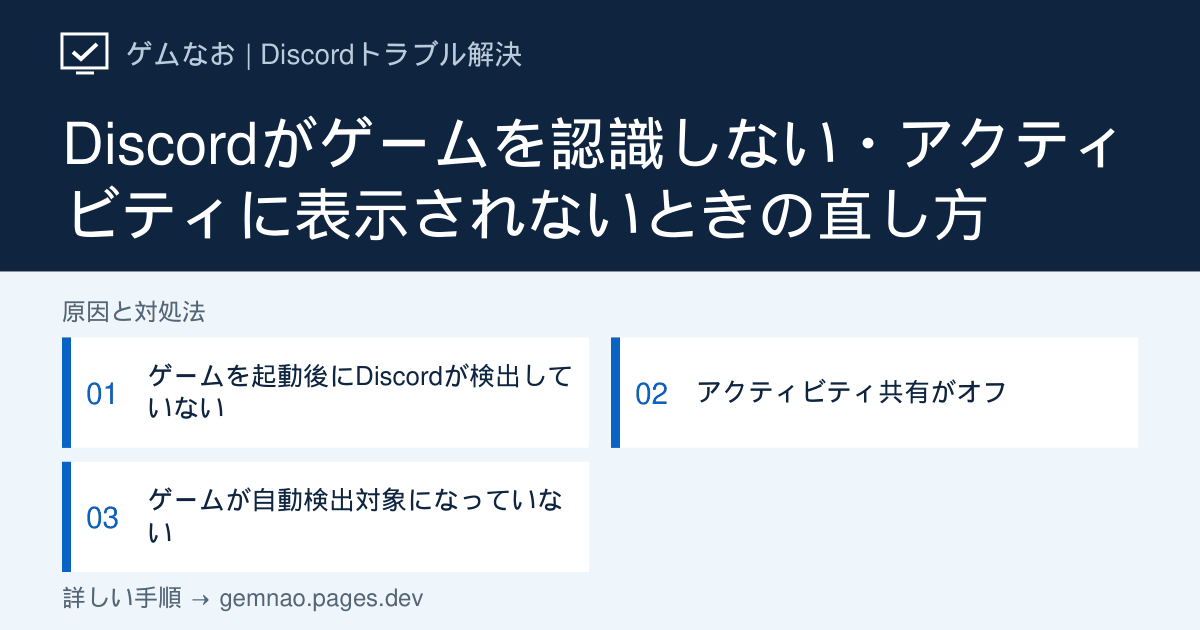
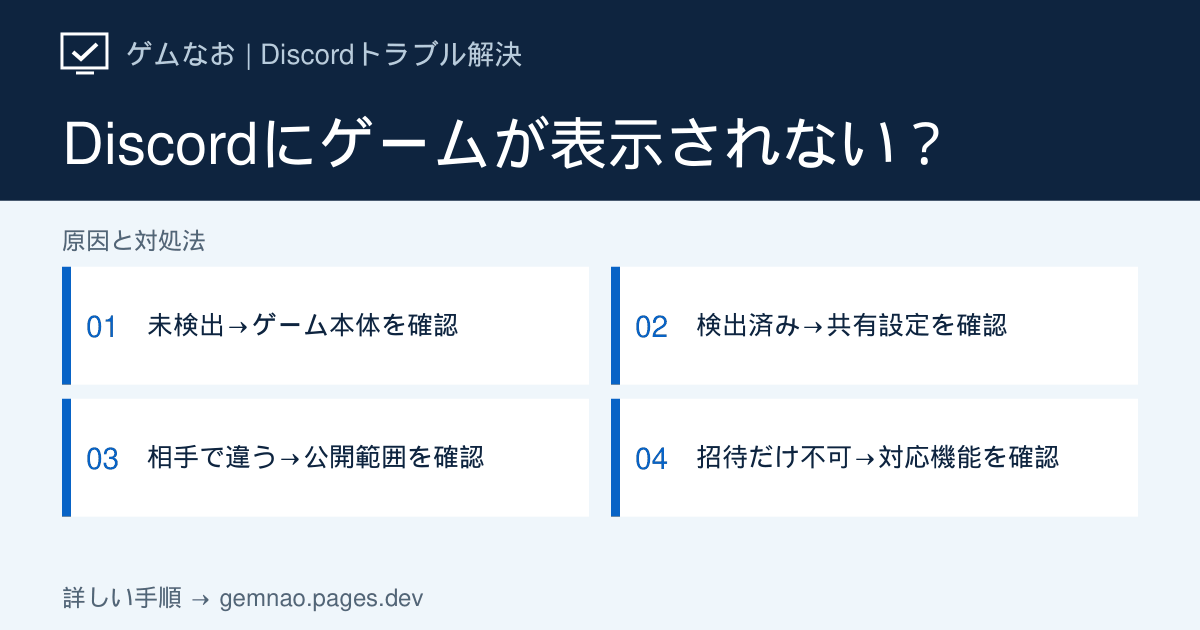
Improve Discord game detection guide with diagnosis and visibility checks

diff --git a/lib/discord-audio-growth-articles.ts b/lib/discord-audio-growth-articles.ts
@@ -587,25 +587,96 @@ export const discordAudioGrowthArticles: DiscordArticle[] = [
   },
   {
     slug: 'game-not-detected', category: 'game',
-    title: 'Discordがゲームを認識しない・アクティビティに表示されないときの直し方',
+    title: 'Discordがゲームを認識しない・表示されない時の直し方｜検出と共有を切り分け',
     shortTitle: 'ゲームを認識しない・表示されない',
-    seoTitle: 'Discordがゲームを認識しない・アクティビティに出ない時の対処法',
-    metaDescription: 'Discordが起動中のゲームを認識しない、プレイ中表示が出ない場合の対処法。アクティビティ共有、登録済みゲーム、権限を確認します。',
-    symptom: 'ゲームを起動してもプロフィールにプレイ中と表示されない、ゲーム招待で「ゲームが検出されません」と出る場合の手順です。',
-    target: 'Windows版 Discordデスクトップアプリ',
-    conclusion: 'ゲームを一度起動した状態でDiscordのアクティビティ設定を確認し、必要なら実行中のゲームを登録済みゲームへ追加します。',
-    quickFixes: ['ゲームを起動してからDiscordを再起動する', 'アクティビティの共有設定をオンにする', '実行中のゲームを登録済みゲームへ追加する'],
+    seoTitle: 'Discordがゲームを認識しない原因と直し方｜プレイ中が表示されない',
+    metaDescription: 'Discordでゲームが表示されない時は、未検出か共有設定の問題かを先に確認。登録済みゲームの確認・手動追加、相手側との表示比較、特定サーバーだけ表示されない場合、ゲーム招待のエラーを症状別に解説します。',
+    symptom: '起動中のゲームがDiscordに出ない、友達にプレイ中と表示されない、ゲーム招待で「Game not detected」が出る場合の手順です。',
+    target: 'Windows 11／Windows 10のDiscordデスクトップアプリ。PCゲームの検出とアクティビティ表示が対象',
+    conclusion: 'まずゲームを起動したまま「登録済みゲーム」で現在の検出状態を確認します。未検出ならゲーム本体の起動と手動追加、検出済みならアクティビティの共有設定を確認。自分の登録画面だけで判断せず、同じゲームを起動した状態で相手のプロフィール表示と照合してください。招待だけ使えない場合はゲーム側の対応も確認します。',
+    quickFixes: [
+      'ゲーム本体をタイトル画面まで起動し、登録済みゲームで現在検出されているか確認する',
+      '未検出なら手動追加、検出済みなら共有設定へ進む',
+      '同じ相手にプロフィールを開き直してもらい、現在のゲーム名が見えるか確認する',
+    ],
+    showStatusCheck: false,
+    diagnosisTitle: 'ゲームの未検出・共有先・招待を見分ける早見表',
+    diagnosisIntro: '確認するのは「自分の登録画面」と「相手から見たプロフィール」の2か所です。過去に登録した名前が一覧に残っているだけでは、今のゲームを検出できている証拠にはなりません。',
+    diagnosis: [
+      { symptom: '登録済みゲームに、現在起動しているゲームが出ない', check: 'ランチャーではなくゲーム本体を起動し、追加候補を確認', causeIndex: 1 },
+      { symptom: '現在のゲームは検出済みだが、相手には表示されない', check: '全体とゲーム単位の共有設定を確認し、同じ相手と比較', causeIndex: 2 },
+      { symptom: '友達には見えるが、特定サーバーの相手には見えない', check: '共有する相手の範囲と、そのサーバーの設定を確認', causeIndex: 3 },
+      { symptom: '1本だけ出ない／別のゲームも検出しない', check: 'ゲームを1本ずつ起動して比較し、問題の範囲を絞る', causeIndex: 4 },
+      { symptom: 'ゲーム名は見えるが、招待・参加ボタンがない', check: 'ゲームの招待対応と、参加を受け付ける状態かを確認', causeIndex: 5 },
+      { symptom: 'ゲーム名は見えるが、ゲーム画面内にDiscordが出ない', check: '検出ではなくオーバーレイの問題。関連記事へ進む', causeIndex: 5 },
+    ],
     causes: [
-      { title: 'ゲームを起動後にDiscordが検出していない', description: 'Discord公式も、検出には対象ゲームを一度起動するよう案内しています。', actions: ['対象ゲームを起動してタイトル画面まで進む', 'Discordを完全終了して再起動する', 'アクティビティ設定を再確認する'] },
-      { title: 'アクティビティ共有がオフ', description: '検出されていても、現在のアクティビティを共有しない設定では表示されません。', actions: ['ユーザー設定のアクティビティ関連項目を開く', '現在のアクティビティを共有する設定を確認する', 'カスタムステータスと混同していないか確認する'] },
-      { title: 'ゲームが自動検出対象になっていない', description: '一部ゲームやランチャーは手動登録が必要な場合があります。', actions: ['登録済みゲームの画面を開く', '実行中のアプリから対象ゲームを追加する', '管理者権限が異なる場合はDiscordとゲームの権限をそろえる'] },
+      {
+        title: '未検出なら、ゲーム本体を起動して手動追加を確認する',
+        description: 'Steamなどのランチャーが開いていることと、ゲーム本体が動いていることを分けて確認します。まず1本だけ起動して調べると、別のアプリを登録する間違いを減らせます。',
+        actions: [
+          'ゲームをタイトル画面まで起動し、終了せずAlt＋TabでDiscordのデスクトップアプリへ戻る。ブラウザのDiscordを見ている場合は、PCにインストールしたアプリで確認する。',
+          '左下の歯車からユーザー設定を開き、「登録済みゲーム（Registered Games）」を探す。公式の現行案内では「Games & Apps」内にある。日本語の分類名が異なる場合は登録済みゲームという項目を目印にする。',
+          '現在起動中として表示される名前を控える。目的のゲームならSTEP 2へ。名前がない、またはランチャー名だけなら、ゲーム本体のウィンドウが開いているか確認する。',
+          '「追加する／Add it!」に相当するリンクが表示されている場合は開き、実行中の候補からゲーム本体を選んで追加する。似た名前を推測で選ばず、分からない時はゲームのウィンドウ名と照合する。',
+          '追加後、現在のゲームとして認識されればSTEP 2へ進む。候補にも出ない場合は追加を繰り返さず、STEP 4で別のゲームとの比較を行う。',
+        ],
+      },
+      {
+        title: '検出済みなら、共有設定を確認して相手の画面と比べる',
+        description: 'PC内でゲームを認識することと、他の人に知らせることは別です。設定を変える前に、ゲーム名を誰に公開したいか決めてください。',
+        actions: [
+          'ユーザー設定のアクティビティ共有／プライバシーに関する画面を開き、「Share my activity」など活動の共有を切り替える項目を確認する。表示名はアプリの更新状況によって異なる。',
+          '共有する場合は全体の共有をオンにし、登録済みゲームで対象ゲームの共有も有効か確認する。オーバーレイの切り替えと混同せず、項目の説明を読む。',
+          'ゲームを起動したまま、共有したい相手1人にDiscord上の自分のプロフィールを開き直してもらう。「今のゲーム名が見えるか」を聞き、過去のプレイ履歴だけを見ていないか確認する。',
+          '変更前は表示なし、変更後は現在のゲーム名ありなら共有設定の変更で改善したと判断する。表示が変わらない場合は相手・ゲームを変えず、STEP 3で公開範囲を確認する。',
+        ],
+      },
+      {
+        title: '相手によって表示が違うなら、共有する範囲を確認する',
+        description: '全員に見せる必要はありません。表示させたい相手が共有範囲に含まれるかを確認します。自分の画面に見えているだけでは、そのサーバーの全員にも見えているとは判断できません。',
+        actions: [
+          'アクティビティ共有画面で、友達のみなどの共有先の指定と、サーバーごとの設定を確認する。目的の相手が友達なのか、同じサーバーにいるだけなのかを先に整理する。',
+          '特定サーバーでだけ困る場合は、サーバー名のメニュー→プライバシー設定からアクティビティの項目を確認する。必要な共有先だけを変更する。',
+          '同じゲームを起動したまま、表示させたい相手に再確認を頼む。友達かどうか、ほかに共通サーバーがあるかも記録すると、相手による違いを説明しやすい。',
+          '例：友達Aには表示され、サーバーで知り合ったBには表示されないなら、手動登録をやり直す前に公開範囲を調べる。AにもBにも見えず、登録画面でも未検出ならSTEP 1へ戻る。',
+        ],
+        note: 'これは比較方法の例で、実機検証の結果ではありません。メンバー一覧のカード表示だけで判断せず、相手から見たプロフィールも確認してください。',
+      },
+      {
+        title: '別のゲームと比べて、1本だけか全体の問題かを絞る',
+        description: 'ゲームの再インストールやDiscordの設定初期化へ進む前に、検出しない範囲を調べます。比較には、すでにインストールしてある別のゲームを使えば十分です。',
+        actions: [
+          '問題のゲーム名・ランチャー名と、「現在検出される名前」「相手に表示される名前」をメモする。ゲームを保存して終了し、別のゲームを1本だけ起動する。',
+          '同じ登録画面と同じ相手で比較する。別のゲームは検出されるなら、対象ゲームの起動方法や追加候補を重点的に確認する。1本だけの問題をDiscord全体の故障と決めつけない。',
+          'どちらも検出しないなら、タスクバー右下の通知領域にあるDiscordアイコンから終了し、起動し直して同じ比較を行う。ゲーム内の進行を保存してから操作する。',
+          '再起動後も同じなら、ゲーム名、DiscordとWindowsのバージョン、比較した別ゲームの結果、登録画面の画像をまとめて公式サポートへ相談する。画像のユーザー名やサーバー名は必要に応じて隠す。',
+        ],
+        note: '表示名を出すためだけに、セキュリティ機能を無効化したり、不明な連携ツールを入れたりする必要はありません。',
+      },
+      {
+        title: '招待・参加・オーバーレイだけ使えない場合は別に確認する',
+        description: 'ゲーム名の表示が直っても、すべてのゲームに招待や観戦ボタンが追加されるわけではありません。ゲーム側の対応機能と現在のプレイ状態を確認します。',
+        actions: [
+          '招待を受ける時に「Game not detected」が出る場合は、対象ゲームを自分のPCで一度起動してから招待を試す。公式の案内は、招待機能がゲームに追加された後に起動していることを条件としている。',
+          '招待を送るボタンが出ない場合は、ゲームがDiscordのゲーム招待に対応しているかをゲームの公式案内で確認し、ロビーなど参加を受け付ける状態で試す。共有設定もSTEP 2で確認する。',
+          'ゲーム名だけ表示され、マップ名・参加・観戦などが出ない場合は、手動追加の失敗と決めつけない。詳細表示や参加機能にはゲーム側の対応が必要になる。',
+          '相手にゲーム名は見えるのに、ゲーム画面内の通話表示だけ出ない場合は関連記事「オーバーレイが表示されない」へ進む。ゲームを再登録する作業はいったん止める。',
+        ],
+      },
     ],
-    ifNotFixed: 'ゲーム側がDiscord連携に対応していない場合や、アンチチート・ランチャー構成により表示されない場合があります。表示名だけを目的に不明な外部ツールを導入しないでください。',
+    ifNotFixed: '相談時は「ゲーム名／起動元」「登録画面で現在検出されるか」「誰から見えないか」「別ゲームでも同じか」「再起動前後の違い」を1行ずつまとめてください。この5点があれば、検出・公開範囲・ゲーム固有の連携のどこで止まるかを伝えられます。',
     faqs: [
-      { question: '「ゲームが検出されません」と表示されます', answer: 'まずゲームを一度起動し、Discordを再起動してください。公式のゲーム招待案内でも、機能追加後に一度ゲームを起動する必要があると説明されています。' },
-      { question: '登録したゲーム名を変更できますか？', answer: 'Discordの現在の画面仕様で編集できる場合がありますが、公式機能や表示項目は更新されるため、アプリ内の登録済みゲーム画面を確認してください。' },
+      { question: '登録済みゲームに名前があれば、認識できていますか？', answer: '過去に登録した項目が残っているだけの場合もあるため、それだけでは判断できません。ゲームを起動した状態で現在の検出表示を確認し、終了した時との違いも見てください。' },
+      { question: '手動追加すれば招待や観戦も使えますか？', answer: '保証されません。ゲーム名の登録と、ゲームが提供するDiscordの招待・観戦連携は別です。対応ゲームでも、参加できるロビーなど適切な状態で試す必要があります。' },
+      { question: 'プレイ履歴を消せば、現在のゲーム表示も直りますか？', answer: '履歴の削除を検出修復の代わりにしないでください。現在の表示を直す場合は登録画面と共有設定を確認し、過去の履歴を消したい場合だけ履歴の操作を行います。' },
+      { question: '確認を頼む相手がいない場合は？', answer: '現在の検出状態と共有設定までは自分で確認できます。ただし、相手から見えるかどうかは未確認として分けてください。登録画面だけを根拠に公開表示まで直ったとは判断しない方が確実です。' },
     ],
-    sources: [gameInvites, activityStatus], related: ['overlay-not-showing', 'system-helper', 'not-opening'], checkedAt: '2026-09-19', status: 'verified',
+    sources: [activityStatus, gameInvites, discordSupportRequest],
+    related: ['overlay-not-showing', 'not-opening', 'slow-performance'],
+    checkedAt: '2026-09-28', status: 'verified',
+    ogTitle: 'Discordにゲームが表示されない？',
+    ogSteps: ['未検出→ゲーム本体を確認', '検出済み→共有設定を確認', '相手で違う→公開範囲を確認', '招待だけ不可→対応機能を確認'],
   },
   {
     slug: 'user-volume-low', category: 'audio',

diff --git a/lib/og-image-manifest.ts b/lib/og-image-manifest.ts
@@ -13,7 +13,7 @@ export const ogImageManifest: Record<string, string> = {
   "/discord/error-1001": "7cb71244",
   "/discord/error-1002": "ead6d712",
   "/discord/error-1003": "aa3963fa",
-  "/discord/game-not-detected": "c3572bd7",
+  "/discord/game-not-detected": "677b005b",
   "/discord/game-volume-lowers": "51f67981",
   "/discord/installation-failed": "f0058f33",
   "/discord/loading-stuck": "c18e0bfc",
